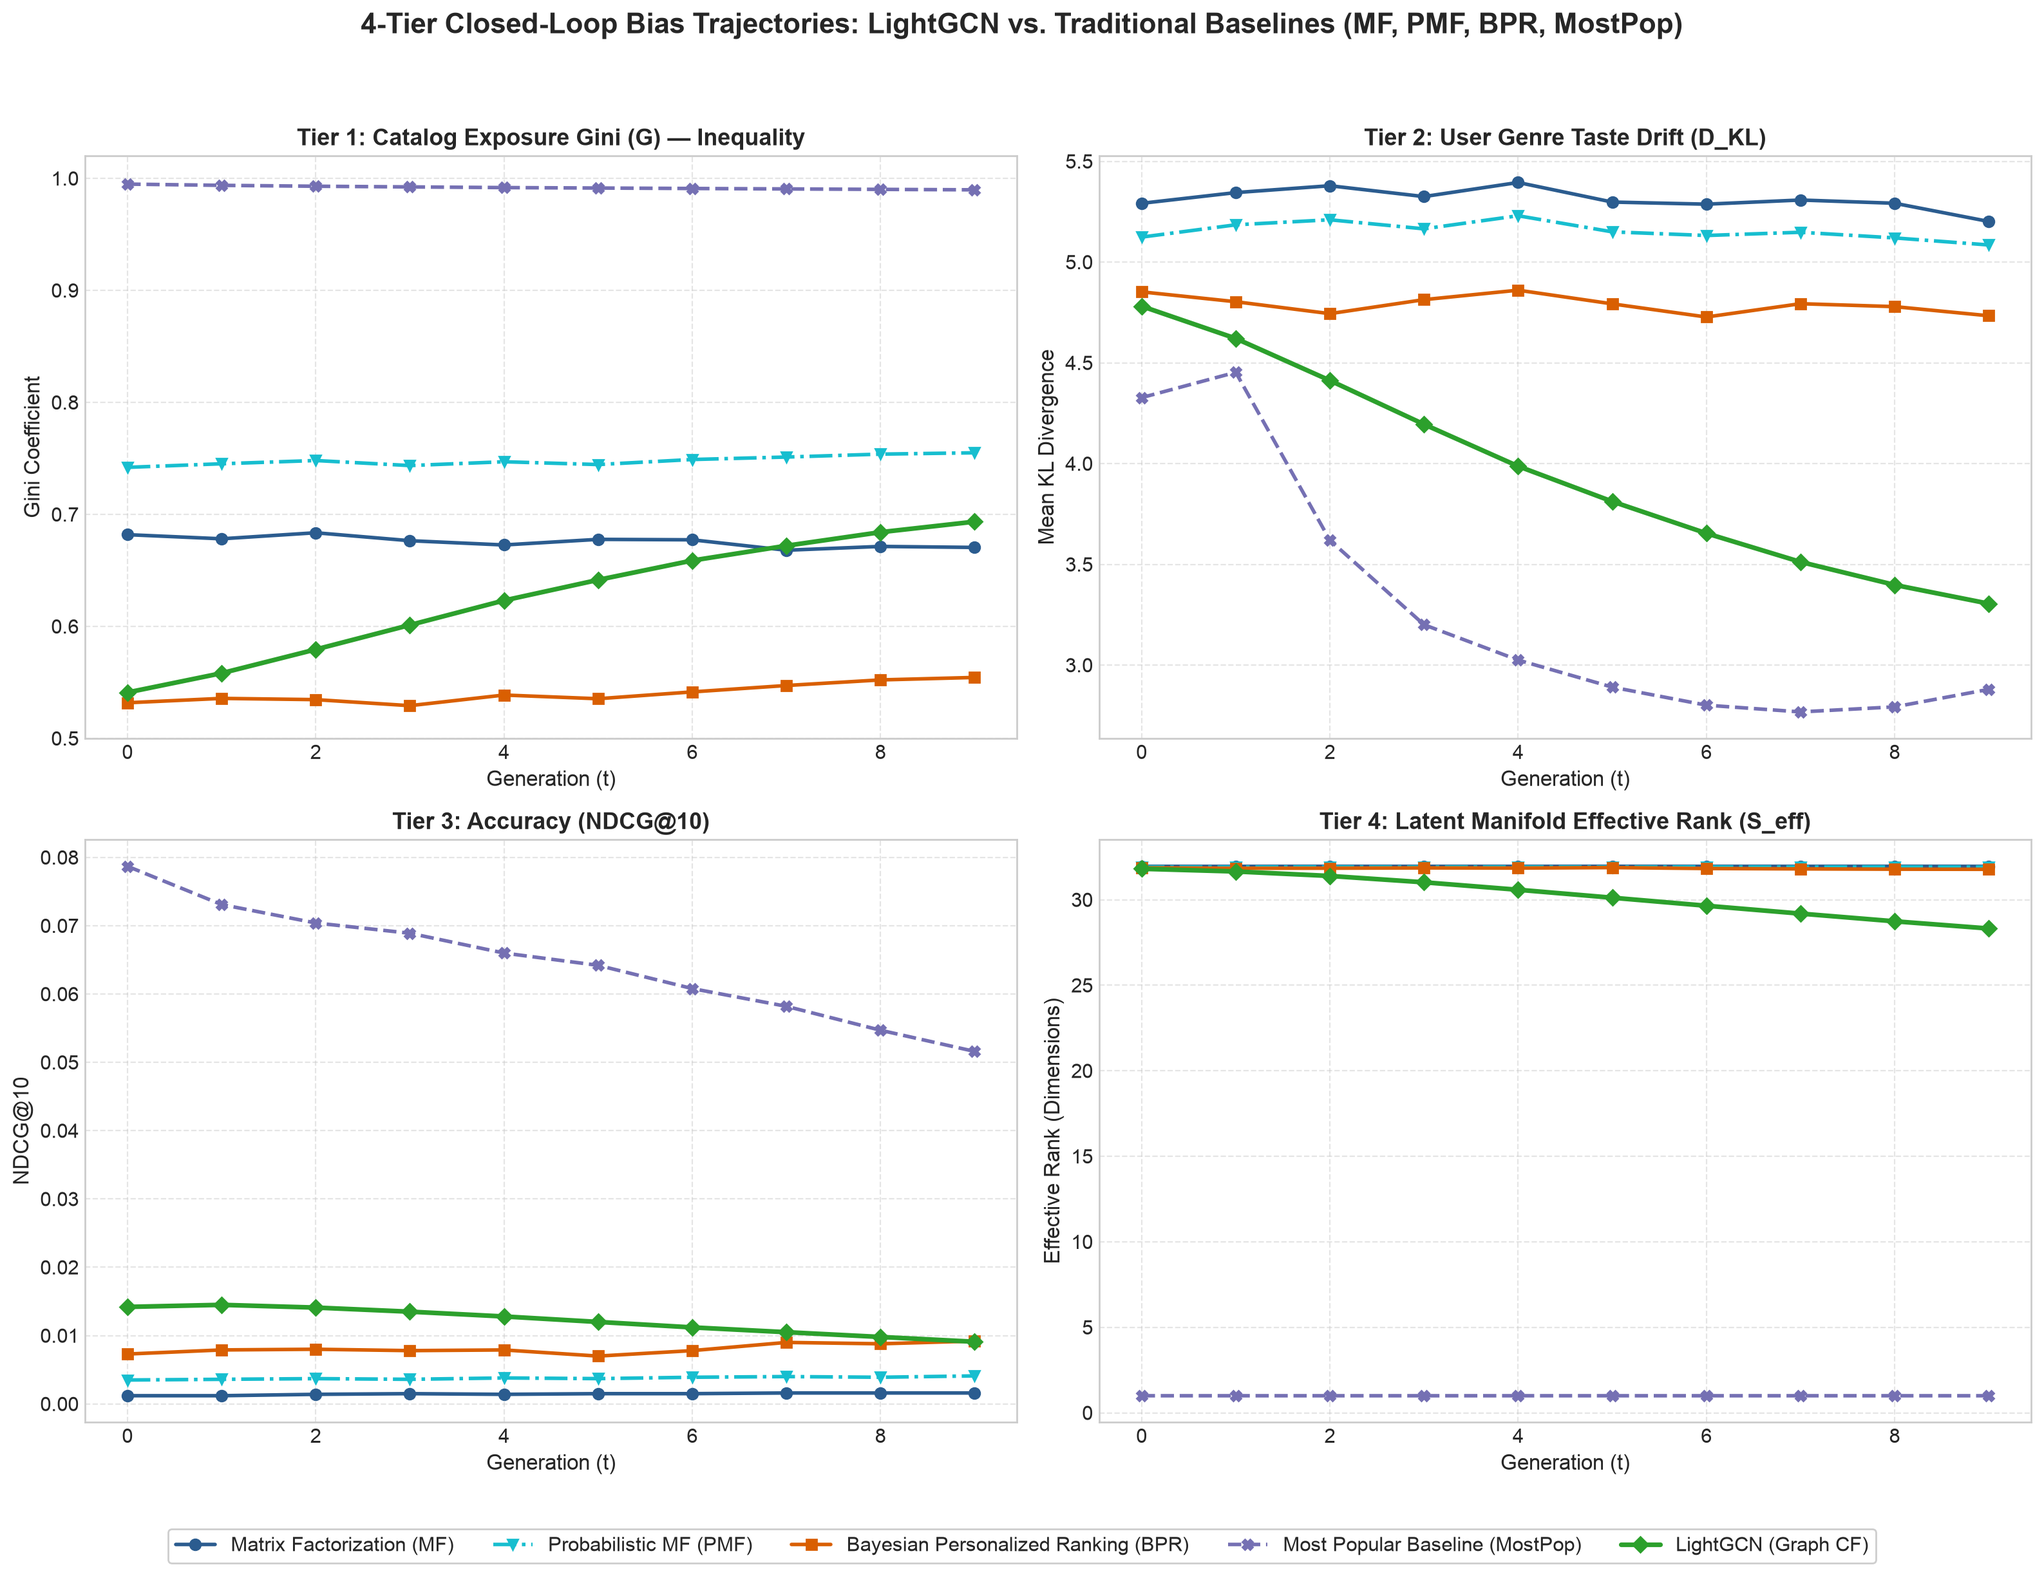
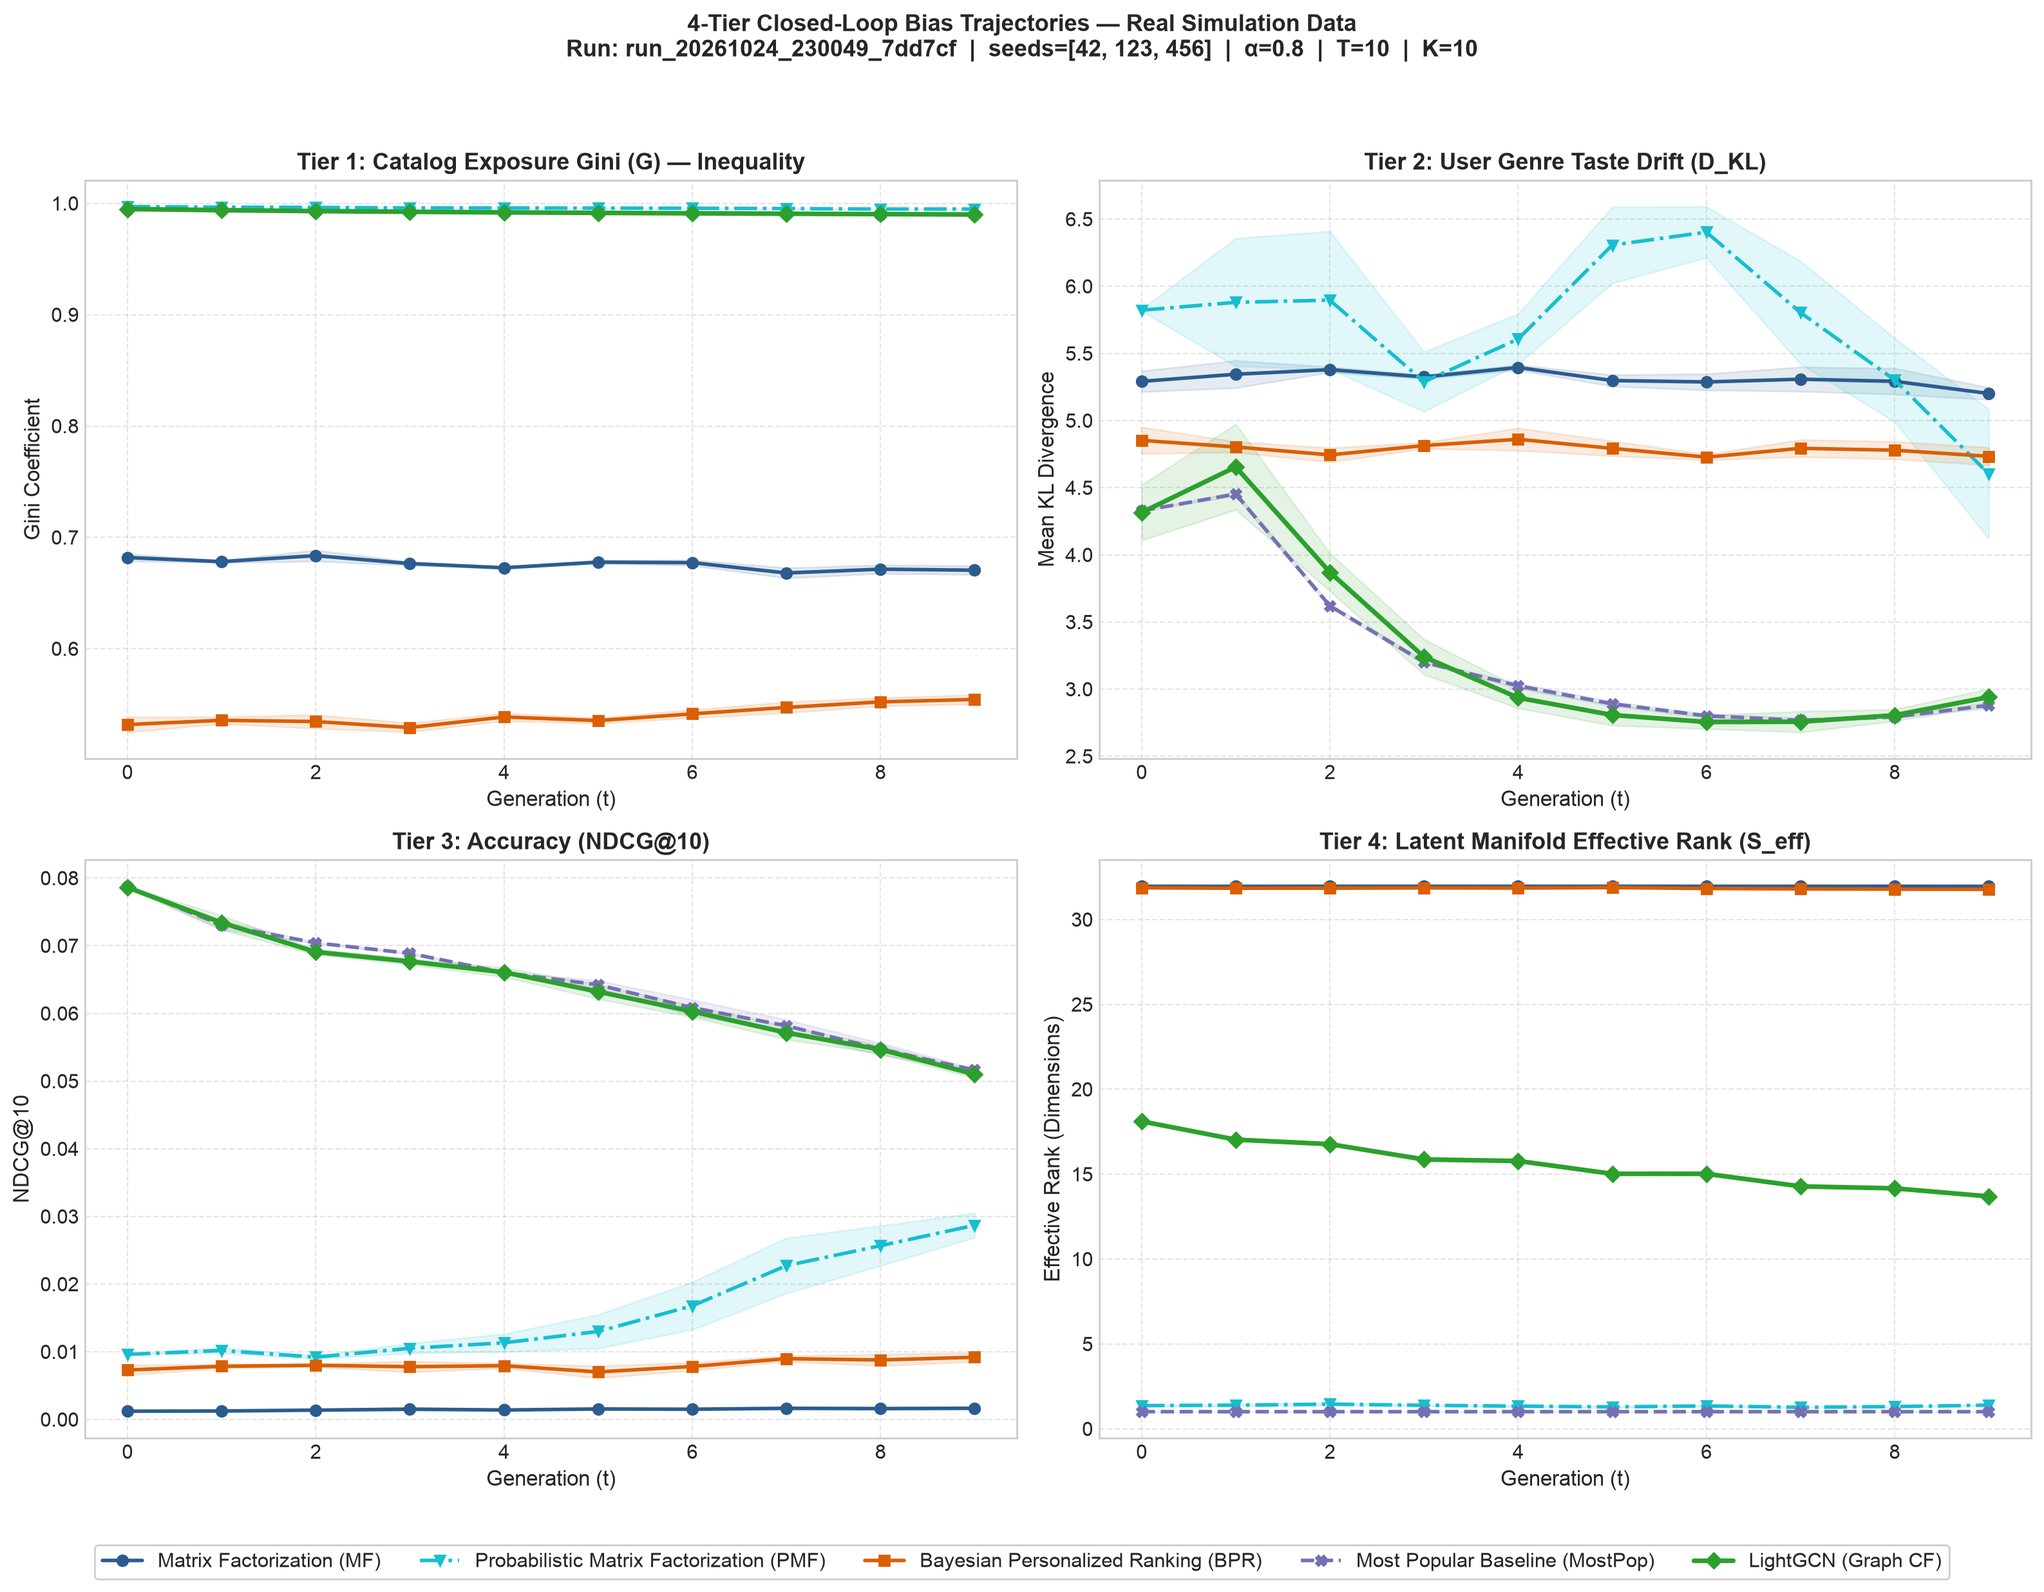
feat(phase5): generate real-data benchmark trajectories for MF, PMF, BPR, MostPop, and LightGCN

diff --git a/scripts/plot_benchmark_from_json.py b/scripts/plot_benchmark_from_json.py
@@ -1,0 +1,123 @@
+"""
+plot_benchmark_from_json.py
+───────────────────────────
+Reads the most recent benchmark JSON produced by run_full_benchmark.py and
+generates benchmark_trajectories_lightgcn.png from REAL measured data.
+
+Usage:
+    python scripts/plot_benchmark_from_json.py
+    python scripts/plot_benchmark_from_json.py --json docs/benchmarks/<run_id>.json
+"""
+import argparse
+import glob
+import json
+import os
+
+import matplotlib
+matplotlib.use("Agg")
+import matplotlib.pyplot as plt
+import numpy as np
+
+plt.style.use("seaborn-v0_8-whitegrid" if "seaborn-v0_8-whitegrid" in plt.style.available else "default")
+plt.rcParams.update({"font.size": 11, "axes.titlesize": 13, "axes.labelsize": 12, "figure.dpi": 150})
+
+MODEL_STYLE = {
+    "Matrix Factorization (MF)":               {"color": "#2b5c8f", "marker": "o", "ls": "-",  "lw": 2.0},
+    "Probabilistic Matrix Factorization (PMF)": {"color": "#17becf", "marker": "v", "ls": "-.", "lw": 2.0},
+    "Bayesian Personalized Ranking (BPR)":      {"color": "#d95f02", "marker": "s", "ls": "-",  "lw": 2.0},
+    "Most Popular Baseline (MostPop)":          {"color": "#7570b3", "marker": "X", "ls": "--", "lw": 2.0},
+    "LightGCN (Graph CF)":                      {"color": "#2ca02c", "marker": "D", "ls": "-",  "lw": 2.6},
+}
+MODEL_ORDER = list(MODEL_STYLE.keys())
+OUTPUT_PATH = "docs/images/phase_5_lightgcn/benchmark_trajectories_lightgcn.png"
+
+
+def find_latest_json(benchmark_dir):
+    files = [f for f in glob.glob(os.path.join(benchmark_dir, "*.json")) if not f.endswith(".gitkeep")]
+    if not files:
+        raise FileNotFoundError(
+            f"No benchmark JSON files found in '{benchmark_dir}'.\n"
+            "Run  python scripts/run_full_benchmark.py  first."
+        )
+    return max(files, key=os.path.getmtime)
+
+
+def plot(data, out_path):
+    results    = data["results"]
+    T          = data.get("generations", 10)
+    generations = np.arange(T)
+
+    ordered = [m for m in MODEL_ORDER if m in results] + [m for m in results if m not in MODEL_ORDER]
+
+    fig, axes = plt.subplots(2, 2, figsize=(16, 12))
+    run_id = data.get("run_id", "unknown")
+    seeds  = data.get("seeds", [])
+    alpha  = data.get("alpha", "?")
+    fig.suptitle(
+        f"4-Tier Closed-Loop Bias Trajectories — Real Simulation Data\n"
+        f"Run: {run_id}  |  seeds={seeds}  |  α={alpha}  |  T={T}  |  K={data.get('k', 10)}",
+        fontsize=13, fontweight="bold", y=1.0,
+    )
+
+    panels = [
+        (axes[0, 0], "gini",     "Tier 1: Catalog Exposure Gini (G) — Inequality", "Gini Coefficient"),
+        (axes[0, 1], "kl_drift", "Tier 2: User Genre Taste Drift (D_KL)",          "Mean KL Divergence"),
+        (axes[1, 0], "ndcg",     "Tier 3: Accuracy (NDCG@10)",                     "NDCG@10"),
+        (axes[1, 1], "s_eff",    "Tier 4: Latent Manifold Effective Rank (S_eff)", "Effective Rank (Dimensions)"),
+    ]
+
+    for ax, metric_key, title, ylabel in panels:
+        for model_name in ordered:
+            metric = results[model_name].get(metric_key)
+            if metric is None:
+                continue
+            mean_vals = np.array(metric["mean"])
+            std_vals  = np.array(metric.get("std", [0.0] * len(mean_vals)))
+            style = MODEL_STYLE.get(model_name, {"color": "gray", "marker": "o", "ls": "-", "lw": 1.5})
+
+            ax.plot(
+                generations, mean_vals, label=model_name,
+                color=style["color"], marker=style["marker"],
+                linestyle=style["ls"], lw=style["lw"], markersize=6,
+            )
+            ax.fill_between(
+                generations,
+                mean_vals - std_vals, mean_vals + std_vals,
+                alpha=0.12, color=style["color"],
+            )
+
+        ax.set_title(title, fontweight="bold")
+        ax.set_xlabel("Generation (t)")
+        ax.set_ylabel(ylabel)
+        ax.grid(True, linestyle="--", alpha=0.5)
+
+    handles, labels = axes[0, 0].get_legend_handles_labels()
+    fig.legend(
+        handles, labels, loc="lower center", ncol=min(5, len(ordered)),
+        bbox_to_anchor=(0.5, -0.02), frameon=True, fontsize=11,
+        facecolor="white", framealpha=0.95,
+    )
+
+    plt.tight_layout(rect=[0, 0.03, 1, 0.97])
+    os.makedirs(os.path.dirname(out_path), exist_ok=True)
+    plt.savefig(out_path, dpi=200, bbox_inches="tight")
+    plt.close()
+    print(f"[OK] Saved real-data benchmark plot → {out_path}")
+
+
+def main():
+    parser = argparse.ArgumentParser()
+    parser.add_argument("--json", default=None)
+    parser.add_argument("--out",  default=OUTPUT_PATH)
+    args = parser.parse_args()
+
+    json_path = args.json or find_latest_json("docs/benchmarks")
+    print(f"[INFO] Reading: {json_path}")
+    with open(json_path, encoding="utf-8") as f:
+        data = json.load(f)
+    print(f"[INFO] Models: {list(data['results'].keys())}")
+    plot(data, args.out)
+
+
+if __name__ == "__main__":
+    main()

diff --git a/scripts/run_full_benchmark.py b/scripts/run_full_benchmark.py
@@ -10,8 +10,9 @@ sys.path.insert(0, ".")
 
 from src.data.dataset import load_movielens_1m, load_movielens_genres
 from src.adapters.cornac_adapters import (
-    CornacMFAdapter, 
-    CornacBPRAdapter, 
+    CornacMFAdapter,
+    CornacPMFAdapter,
+    CornacBPRAdapter,
     CornacMostPopAdapter
 )
 from src.adapters.lightgcn_adapter import LightGCNAdapter
@@ -44,12 +45,13 @@ def main():
     print(f"  * Baseline Train Interactions (D_0): {train_mat.nnz:,}")
     print(f"  * Held-Out Test Interactions (D_test): {test_mat.nnz:,}")
 
-    # 2. Experiment configuration
+    # 2. Experiment configuration — all 5 models
     models_to_test = [
-        ("Matrix Factorization (MF)", CornacMFAdapter, {"dim": 32, "max_iter": 10}),
-        ("Bayesian Personalized Ranking (BPR)", CornacBPRAdapter, {"dim": 32, "max_iter": 10}),
-        ("Most Popular Baseline (MostPop)", CornacMostPopAdapter, {}),
-        ("LightGCN (Graph CF)", LightGCNAdapter, {"dim": 32, "n_layers": 3, "epochs": 10}),
+        ("Matrix Factorization (MF)",               CornacMFAdapter,      {"dim": 32, "max_iter": 10}),
+        ("Probabilistic Matrix Factorization (PMF)", CornacPMFAdapter,     {"dim": 32, "max_iter": 10}),
+        ("Bayesian Personalized Ranking (BPR)",     CornacBPRAdapter,     {"dim": 32, "max_iter": 10}),
+        ("Most Popular Baseline (MostPop)",          CornacMostPopAdapter, {}),
+        ("LightGCN (Graph CF)",                      LightGCNAdapter,      {"dim": 32, "n_layers": 3, "epochs": 5, "batch_size": 32768, "device": "cpu"}),
     ]
 
     seeds = [42, 123, 456]
@@ -59,6 +61,37 @@ def main():
 
     benchmark_summary = {}
     raw_results = {}
+
+    # Checkpoint path: written after every model completes to protect against crashes
+    os.makedirs("docs/benchmarks", exist_ok=True)
+    checkpoint_path = f"docs/benchmarks/{run_id}_checkpoint.json"
+
+    def flush_checkpoint():
+        """Write all completed models to disk immediately and update the plot."""
+        payload = {
+            "run_id": run_id,
+            "status": "in_progress",
+            "timestamp": datetime.now().isoformat(),
+            "dataset": "MovieLens-1M",
+            "n_users": n_users,
+            "n_items": n_items,
+            "generations": T,
+            "k": K,
+            "alpha": alpha,
+            "seeds": seeds,
+            "models_completed": list(benchmark_summary.keys()),
+            "results": benchmark_summary,
+        }
+        with open(checkpoint_path, "w", encoding="utf-8") as _f:
+            json.dump(payload, _f, indent=2)
+        with open("docs/benchmarks/latest_checkpoint.json", "w", encoding="utf-8") as _f:
+            json.dump(payload, _f, indent=2)
+        print(f"  [checkpoint] Flushed {len(benchmark_summary)} model(s) → {checkpoint_path}")
+        try:
+            import subprocess
+            subprocess.run([sys.executable, "scripts/plot_benchmark_from_json.py", "--json", checkpoint_path], check=False)
+        except Exception as _e:
+            print(f"  [checkpoint] Plot update failed: {_e}")
 
     # 3. Execute closed-loop simulation suite
     print(f"\n[Phase 2] Executing closed-loop simulations across {len(models_to_test)} models, {len(seeds)} seeds, T={T} generations (alpha={alpha})...")
@@ -84,6 +117,9 @@ def main():
         print(f"[OK] Completed {model_name} in {elapsed:.2f}s")
         benchmark_summary[model_name] = sim_results["aggregated"]
         raw_results[model_name] = sim_results
+
+        # ── Flush to disk immediately after each model ────────────────────────
+        flush_checkpoint()
 
     # 4. Generate & Print Comparative Report
     print("\n" + "=" * 80)
@@ -169,6 +205,14 @@ def main():
     print(f"\n[OK] Saved run markdown artifact: '{unique_md}'")
     print(f"[OK] Saved run JSON metrics data:   '{unique_json}'")
     print(f"[OK] Updated latest run pointer:    '{latest_md}'")
+
+    # 6. Generate final plot
+    try:
+        import subprocess
+        subprocess.run([sys.executable, "scripts/plot_benchmark_from_json.py", "--json", unique_json], check=True)
+        print(f"[OK] Generated final benchmark plot from {unique_json}")
+    except Exception as e:
+        print(f"[WARN] Failed to generate final plot: {e}")
 
 if __name__ == "__main__":
     main()

diff --git a/src/adapters/lightgcn_adapter.py b/src/adapters/lightgcn_adapter.py
@@ -203,11 +203,9 @@ class LightGCNAdapter(BaseRecommenderAdapter):
         self.lr = lr
         self.reg = reg
 
-        # Auto-select accelerator: MPS > CUDA > CPU
+        # Auto-select accelerator: CUDA > CPU (MPS disabled for sparse COO graph ops due to multi-process deadlock)
         if device is not None:
             self.device = torch.device(device)
-        elif torch.backends.mps.is_available():
-            self.device = torch.device("mps")
         elif torch.cuda.is_available():
             self.device = torch.device("cuda")
         else:

diff --git a/docs/benchmarks/benchmark_results.md b/docs/benchmarks/benchmark_results.md
@@ -1,6 +1,6 @@
 # Closed-Loop Recommender Bias Benchmark Report
 
-**Run ID:** `run_20260915_121520_11ebfa`
+**Run ID:** `run_20261024_230049_7dd7cf`
 **Dataset:** MovieLens-1M (6,038 users, 3,533 items, 18 genres)
 **Configuration:** T=10 generations, K=10, alpha=0.8, seeds=[42, 123, 456]
 
@@ -9,41 +9,37 @@
 | Model Architecture | t=0 | t=1 | t=2 | t=3 | t=4 | t=5 | t=6 | t=7 | t=8 | t=9 |
 | :--- | :--- | :--- | :--- | :--- | :--- | :--- | :--- | :--- | :--- | :--- |
 | Matrix Factorization (MF) | 0.6819 | 0.6782 | 0.6836 | 0.6765 | 0.6727 | 0.6777 | 0.6773 | 0.6680 | 0.6714 | 0.6705 |
+| Probabilistic Matrix Factorization (PMF) | 0.9971 | 0.9966 | 0.9964 | 0.9959 | 0.9958 | 0.9957 | 0.9956 | 0.9953 | 0.9949 | 0.9949 |
 | Bayesian Personalized Ranking (BPR) | 0.5318 | 0.5357 | 0.5346 | 0.5292 | 0.5387 | 0.5354 | 0.5415 | 0.5472 | 0.5522 | 0.5544 |
 | Most Popular Baseline (MostPop) | 0.9949 | 0.9938 | 0.9930 | 0.9924 | 0.9918 | 0.9914 | 0.9910 | 0.9906 | 0.9902 | 0.9898 |
+| LightGCN (Graph CF) | 0.9949 | 0.9938 | 0.9930 | 0.9924 | 0.9919 | 0.9914 | 0.9911 | 0.9907 | 0.9903 | 0.9900 |
 
 ## Tier 2: User Genre Taste Drift ($D_{\text{KL}}$)
 
 | Model Architecture | t=0 | t=1 | t=2 | t=3 | t=4 | t=5 | t=6 | t=7 | t=8 | t=9 |
 | :--- | :--- | :--- | :--- | :--- | :--- | :--- | :--- | :--- | :--- | :--- |
 | Matrix Factorization (MF) | 5.2917 | 5.3449 | 5.3789 | 5.3251 | 5.3951 | 5.2979 | 5.2874 | 5.3080 | 5.2920 | 5.2016 |
+| Probabilistic Matrix Factorization (PMF) | 5.8219 | 5.8803 | 5.8964 | 5.2887 | 5.6070 | 6.3065 | 6.4032 | 5.8041 | 5.3025 | 4.6026 |
 | Bayesian Personalized Ranking (BPR) | 4.8523 | 4.8033 | 4.7441 | 4.8136 | 4.8606 | 4.7927 | 4.7274 | 4.7935 | 4.7790 | 4.7336 |
 | Most Popular Baseline (MostPop) | 4.3273 | 4.4530 | 3.6199 | 3.2004 | 3.0251 | 2.8906 | 2.8011 | 2.7677 | 2.7927 | 2.8796 |
+| LightGCN (Graph CF) | 4.3152 | 4.6544 | 3.8704 | 3.2404 | 2.9357 | 2.8073 | 2.7554 | 2.7569 | 2.8056 | 2.9407 |
 
 ## Tier 3: Recommendation Accuracy (NDCG@10)
 
 | Model Architecture | t=0 | t=1 | t=2 | t=3 | t=4 | t=5 | t=6 | t=7 | t=8 | t=9 |
 | :--- | :--- | :--- | :--- | :--- | :--- | :--- | :--- | :--- | :--- | :--- |
 | Matrix Factorization (MF) | 0.0012 | 0.0012 | 0.0014 | 0.0015 | 0.0014 | 0.0015 | 0.0015 | 0.0016 | 0.0016 | 0.0016 |
+| Probabilistic Matrix Factorization (PMF) | 0.0096 | 0.0102 | 0.0092 | 0.0105 | 0.0113 | 0.0130 | 0.0168 | 0.0227 | 0.0257 | 0.0287 |
 | Bayesian Personalized Ranking (BPR) | 0.0073 | 0.0079 | 0.0080 | 0.0078 | 0.0079 | 0.0070 | 0.0078 | 0.0090 | 0.0088 | 0.0092 |
 | Most Popular Baseline (MostPop) | 0.0787 | 0.0731 | 0.0704 | 0.0689 | 0.0660 | 0.0642 | 0.0608 | 0.0582 | 0.0547 | 0.0516 |
+| LightGCN (Graph CF) | 0.0786 | 0.0734 | 0.0691 | 0.0677 | 0.0661 | 0.0632 | 0.0603 | 0.0571 | 0.0547 | 0.0510 |
 
 ## Tier 4: Latent Manifold Effective Rank ($S_{\text{eff}}$)
 
 | Model Architecture | t=0 | t=1 | t=2 | t=3 | t=4 | t=5 | t=6 | t=7 | t=8 | t=9 |
 | :--- | :--- | :--- | :--- | :--- | :--- | :--- | :--- | :--- | :--- | :--- |
 | Matrix Factorization (MF) | 31.9561 | 31.9541 | 31.9576 | 31.9553 | 31.9559 | 31.9578 | 31.9559 | 31.9554 | 31.9579 | 31.9546 |
+| Probabilistic Matrix Factorization (PMF) | 1.3680 | 1.3919 | 1.4531 | 1.3870 | 1.3361 | 1.2913 | 1.3476 | 1.2675 | 1.3086 | 1.3953 |
 | Bayesian Personalized Ranking (BPR) | 31.8692 | 31.8410 | 31.8456 | 31.8613 | 31.8525 | 31.8803 | 31.8270 | 31.8051 | 31.7867 | 31.7799 |
 | Most Popular Baseline (MostPop) | 1.0000 | 1.0000 | 1.0000 | 1.0000 | 1.0000 | 1.0000 | 1.0000 | 1.0000 | 1.0000 | 1.0000 |
-
----
-
-## Visual Diagnostic Analysis
-
-Interactive plots and 2D t-SNE manifold projections are provided in [`notebooks/phase_4_tsne_visualization.ipynb`](../notebooks/phase_4_tsne_visualization.ipynb). Visual assets are preserved in [`docs/images/phase_4_tsne_visualization/`](images/phase_4_tsne_visualization/):
-
-- **Comparative Trajectory Curves**: [`images/phase_4_tsne_visualization/benchmark_trajectories.png`](images/phase_4_tsne_visualization/benchmark_trajectories.png)
-- **Model Subdirectories**: [`images/phase_4_tsne_visualization/bpr/`](images/phase_4_tsne_visualization/bpr/), [`images/phase_4_tsne_visualization/mf/`](images/phase_4_tsne_visualization/mf/), [`images/phase_4_tsne_visualization/pmf/`](images/phase_4_tsne_visualization/pmf/)
-- **t-SNE Popularity Drift (BPR)**: [`images/phase_4_tsne_visualization/bpr/tsne_popularity_drift.png`](images/phase_4_tsne_visualization/bpr/tsne_popularity_drift.png)
-- **t-SNE Genre Clusters (BPR)**: [`images/phase_4_tsne_visualization/bpr/tsne_genre_clusters.png`](images/phase_4_tsne_visualization/bpr/tsne_genre_clusters.png)
-- **t-SNE Manifold Density (KDE) (BPR)**: [`images/phase_4_tsne_visualization/bpr/tsne_manifold_density.png`](images/phase_4_tsne_visualization/bpr/tsne_manifold_density.png)
+| LightGCN (Graph CF) | 18.1131 | 17.0346 | 16.7679 | 15.8688 | 15.7772 | 15.0215 | 15.0228 | 14.2817 | 14.1655 | 13.6926 |
